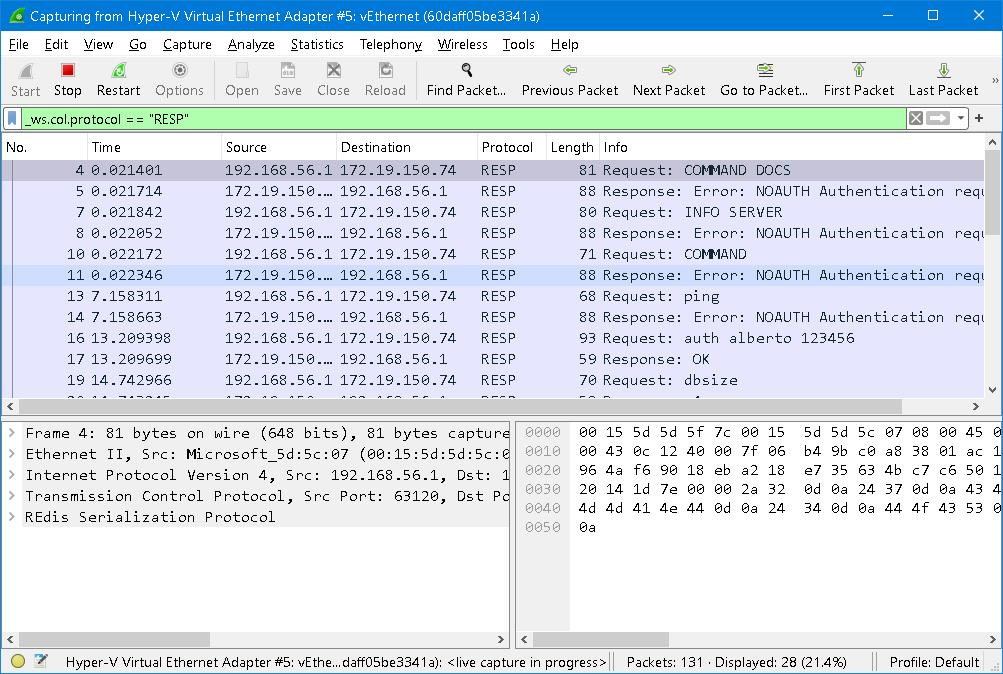
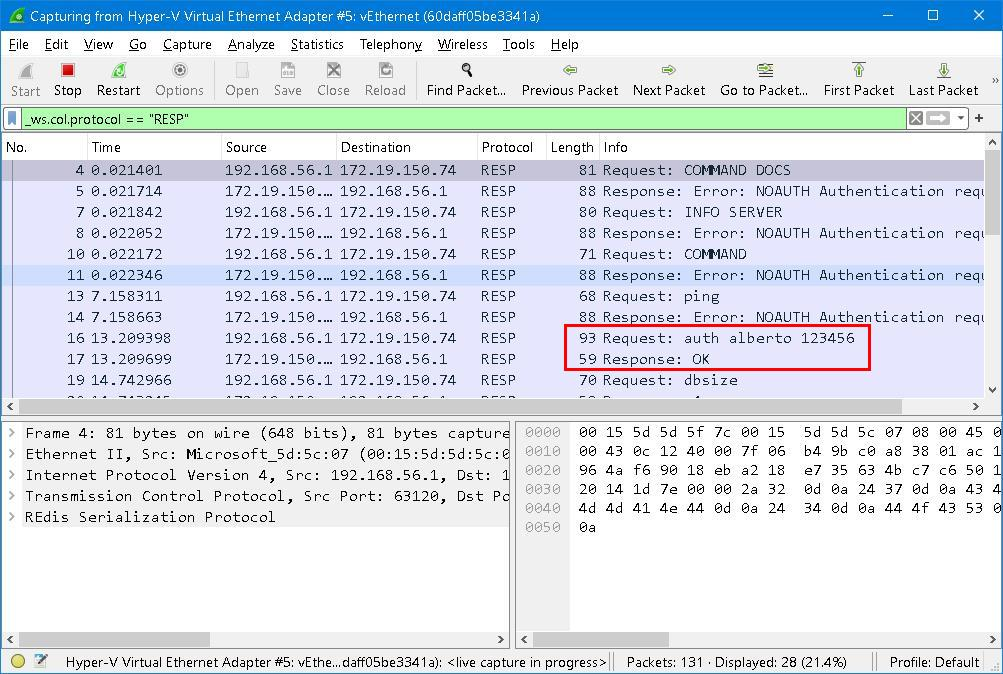
write more

Changed region(s): [[0.5563, 0.4674, 0.8654, 0.5608], [0.8654, 0.4985, 0.8963, 0.5297]]

diff --git a/security3.md b/security3.md
@@ -76,42 +76,182 @@ Here, I'm entering a gender, birthday, credit card number, and credit card expir
 
 In this example, I'm sniffing unencrypted data from the server where Redis is hosted. But this kind of surveillance can be run on any server, network switch, or router that sits between your Redis client and your Redis server. This means that usually there are quite a few opportunities for someone to sniff and record unencrypted network traffic. 
 
-Running a traceroute from your client to your Redis server will give you an idea of just how many sniffing opportunities might exist. And you can't secure this network route because it's completely outside of your control. So let's see what happens if we encrypt our network traffic using TLS instead. I'm going to start Redis again, this time with TLS enabled. Now I'll clear my screen and start that `tcpdump` again. Moving back to my client screen, I'll now connect to Redis, this time using TLS. This means my connection is now encrypted. Now I'll issue the same command I did before. Then, let's look again at the `tcpdump` output. See the difference? All you can see now are what appear to be a bunch of random characters. This is the value of encryption in action. Encryption protects your sensitive data from prying eyes on the network. For the rest of the unit, I'm going to explain how TLS works and everything you need to know to set it up with Redis. But first, two key points to remember for now. First, if you're storing sensitive information in Redis, and most personal information is sensitive, then you should encrypt your Redis connections with TLS. Second, even if you're using TLS, avoid public networks if you can. If you're on a private network, you greatly limit the number of attack vectors. OK. So with that out of the way, let's learn about TLS and how to use it with Redis.
-
-
-### II. [ACL Concepts](https://youtu.be/GuWWmR4od-A)
-[Access Control Lists](https://redis.io/docs/latest/operate/oss_and_stack/management/security/acl/), or ACLs for short, fundamentally change how Redis's authentication model works. Before Redis 6, Redis authentication was primitive. A single password secured your Redis deployment. There was no support for multiple users and passwords. And there was no support for per-user permissions either, what you might call authorization. 
-
-![alt prior redis 6](img/prior-redis-6.png)
-
-Redis ACLs changed all of that. Now you can create multiple Redis users, each with their own password. And you can control each user's permissions. This is important because you can now effectively implement the *principle of least privilege*. Using ACLs to implement the principle of least privilege prevents a number of bad outcomes. For example, you wouldn't want a new administrator to accidentally drop your database. In this case, you create an ACL that prevents your new administrator from running the `FLUSHDB` or `FLUSHALL` commands.
+Running a `traceroute` from your client to your Redis server will give you an idea of just how many sniffing opportunities might exist. And you can't secure this network route because it's completely outside of your control. 
 ```
-ACL SETUSER newadminuser on >password -FLUSHDB -FLUSHALL 
+traceroute ru330.redis.cloud 
 ```
 
-Similarly, you wouldn't want an attacker with compromised credentials to be able to probe or steal data from your Redis database. If I were an attacker with compromised credentials, one of the first things I would do is run the `SCAN` or `KEYS` command to find out what keys were in the database. I'd then run the `TYPE` command to see which Redis commands I could run on each key. If I couldn't run the `SCAN` or `KEYS` commands, I'd be left guessing what key names to attack this database with. So as an administrator, I'd want to prevent most service account users from running the `SCAN`, `KEYS`, or `TYPE` commands, unless they're part of the application design, just in case those account credentials
-ever got into the wrong hands. It could also help you to reduce the impact of careless user
-mistakes.
+![alt tracert]()
 
-In general, you should be giving users the least amount of privilege used to perform their job.You can do this by separating users by *role*. For example, a developer may only need read and write access, while an administrator may only need the ability to configure Redis. You may also want to separate applications by role. For example, some applications may only read from the database, and others may only write to the database. 
+So let's see what happens if we encrypt our network traffic using TLS instead. I'm going to start Redis again, this time with TLS enabled. Now I'll clear my screen and start that `tcpdump` again. Moving back to my client screen, I'll now connect to Redis, this time using TLS. 
+```
+redis-cli -h ru330.redis --tls --cacert ca.crt 
+```
 
-![alt by role](img/by-role.png)
+This means my connection is now encrypted. Now I'll issue the same command I did before. Then, let's look again at the `tcpdump` output. See the difference? All you can see now are what appear to be a bunch of random characters. This is the value of encryption in action. Encryption protects your sensitive data from prying eyes on the network. 
 
-A good example of this is a Pub/Sub application. In a Pub/Sub pattern, you have a publisher and a subscriber. Your publishers will probably only need the ability to create data, while your subscribers will probably only need access to read from the channels they're subscribed to. Another way to implement the principle of least privilege is to restrict data based on key patterns using namespacing techniques.
+For the rest of the unit, I'm going to explain how TLS works and everything you need to know to set it up with Redis. But first, two key points to remember for now. 
 
-For example, if you do not want an administrator to be able to access sensitive data, you can prefix all of the keys that are sensitive with the secret namespace. Imagine that you had an accounts table that contained user names, user details, and password hashes. You can namespace the keys for each user to be `secret:users` and only give access to the secret namespace to the service account for your application. 
+- First, if you're storing sensitive information in Redis, and most personal information is sensitive, then you should encrypt your Redis connections with TLS. 
+- Second, even if you're using TLS, avoid public networks if you can. If you're on a private network, you greatly limit the number of attack vectors. OK. So with that out of the way, let's learn about TLS and how to use it with Redis.
 
-![alt by name space](img/by_namespace.png)
+**Addendum**
 
-Any restriction on keys should be considered carefully as they must be built into the design of your keys when implementing your applications. OK, so that's ACLs in a nutshell.
+Life in Windows is no better than that in Linux for there is no such things as `tcpdump` bundled with. However, one can install [WinShark](https://www.wireshark.org/#homeMemberLink) which requires [Npcap](https://npcap.com/) to work together. 
 
-**Benefits of Access Control Lists**
-- Command and Key Restrictions 
-- Mitigate damge from a compromised username and password
-- Reduce impact of mistakes 
+![alt winshark](img/winshark-1.JPG) 
 
-In the next unit, we'll see how ACLs work in practice,
-so stay tuned.
+Typically, redis client uses [RESP](https://redis.io/docs/latest/develop/reference/protocol-spec/) protocol, which is plain text, to communicate with redis server. As you can see in following screens. 
+
+![alt ](img/unsafe-1.JPG)
+
+![alt ](img/unsafe-1.JPG)
+
+All commands sent as well as results received can be cleally seen. 
+
+
+### III. [Encryption](https://youtu.be/ULlTtFlSmkY)
+Encryption is the process of taking a message
+and encoding it so that only the intended recipients can
+read it.
+The algorithm you use to encrypt a message is called a cipher.
+Most of us are familiar with basic substitution ciphers
+such as ROT13.
+In ROT13, you can encrypt text by substituting or rotating
+each letter in a message with the letter that
+appears 13 letters later in the Latin alphabet.
+So for example, suppose we start with the plain-text message
+"HELLO".
+If we encrypt "HELLO" using ROT13,
+we get the cipher text URYYB.
+Shifting the H 13 letters forward gets us U and so on.
+To decrypt the cipher text, we just
+perform the reverse operation.
+Take a moment to see if you can decrypt
+the ROT13 encoded message you see on the screen now.
+Of course, the ciphers used by TLS
+are much more sophisticated than ROT13.
+TLS relies on two types of ciphers, symmetric key ciphers
+and asymmetric key ciphers.
+Now when I say key here, I'm talking about an encryption
+key.
+An encryption key is a little bit like a password,
+but it's generally much longer than a password
+and not really easy for a human to memorize.
+Ciphers use encryption keys to encrypt and decrypt data.
+In symmetric key cryptography, the same key
+is used for both encryption and decryption.
+In asymmetric key cryptography, one key is used for encryption,
+and a different key is used for decryption.
+Let's look at some examples to see how this works.
+If you've ever encrypted a file, you've probably
+used a symmetric key cipher.
+Here I'm using the gpg command line utility to encrypt a file
+called treasure-map.txt.
+Here I'm specifying that I want symmetric encryption,
+that I want to use the AES256 cipher,
+which is a commonly used symmetric key cipher,
+that the output should be written to a file called
+treasure-map.encrypted, and that the file I want to encrypt is
+called treasure-map.txt.
+When I run this command, the program asks me for a password.
+Now this is important. gpg uses the password
+I enter to generate an encryption key,
+and then it uses that encryption key to encrypt the file.
+So now we can see the encrypted file.
+To decrypt the file, I run gpg's decrypt command,
+providing the password that I use to encrypt the file.
+Again, gpg then uses that password
+to generate the key that will successfully decrypt the file.
+Clearly, you need to keep the password and encryption
+keys secret if you want your encrypted file to remain
+secret.
+Now suppose it's my friend, Captain Long
+Beard, who wants to send me the encrypted treasure map.
+If I want to receive this encrypted map,
+then I also need to receive the password or key that
+was used to encrypt it, but of course, I run into a problem
+here.
+How is that Captain securely share the key with me?
+He needs to be very careful when sharing his secret key
+because if it gets into anyone else's hands,
+then they'll be able to decrypt the map.
+That's where asymmetric key encryption comes in.
+As I mentioned, asymmetric key ciphers
+use two keys, one to encrypt and another to decrypt.
+The key to encrypt is called the public key,
+and the key to decrypt is called the private key.
+Do you see why?
+You can share your public key far and wide,
+and it doesn't matter who gets access to it.
+Public keys are meant to be publicly distributed.
+I can safely share my public key in an email,
+a tweet, or a published blog post.
+Once Captain Long Beard has my public key,
+he can use it to encrypt messages for me.
+To decrypt those messages, I need to use my private key.
+Obviously, then, I need to keep my private key secret.
+We're going to use the openssl command line
+utility to see how asymmetric encryption works in action.
+First, I'm going to generate my private key,
+so I run the openssl genrsa command.
+This creates the file that I'll use as my private key.
+Remember that this file can't be shared with anyone.
+Here's what the contents of the file look like.
+Now, an interesting fact is that the private key file actually
+contains the public key, but we need to extract it.
+So here's the command to do that,
+and here's what the public key actually looks like.
+So now I just need to send my public key to the Captain.
+It doesn't matter how I send it because it's only used
+for encryption, not decryption.
+I can send it over email, or I can paint it on a billboard.
+Now Captain Long Beard can use my public key
+to encrypt the file containing the treasure map.
+This is the openssl command he'll run.
+He then sends me the encrypted file, treasure-text.encrypted.
+Once I get the file, I use my private key to decrypt it.
+Here's the openssl command I'll run.
+If I'm using the correct private key,
+then I'll be able to decrypt the cipher text into the plain text
+message that leads me to the treasure.
+OK. So there's another important difference
+between asymmetric key and symmetric key ciphers,
+which is performance.
+Asymmetric key ciphers are much more computationally expensive
+and often thousands of times slower
+than symmetric key ciphers, so if you
+need to encrypt a lot of data, you should actually
+use a symmetric key cipher.
+And TLS actually uses both.
+TLS uses asymmetric key cryptography
+to help the two parties establish a shared secret key,
+and then TLS switches to symmetric key cryptography
+for all subsequent exchange of data.
+Let me elaborate on that just a bit.
+Here's how a TLS connection to your bank
+works on a very rudimentary level.
+Step one, you connect to your bank's website.
+Step two, your bank sends you its public key.
+Step three, you use the bank's public key to encrypt and send
+a large random number.
+Step four, the bank decrypts the number with its private key.
+Now you and your bank both have this secret, random number.
+Step five, you and your bank independently
+use this secret random number to generate an encryption key
+that you'll use with symmetric cryptography.
+Step six, communication then switches
+to using a symmetric key cipher.
+You and your bank then encrypt and decrypt
+all subsequent communication using the same encryption
+key you both just independently generated.
+We've just covered a lot of material,
+and you may need to re-watch this video to really master it.
+But at this point, you should have
+a sense for what encryption is and how it ensures
+the privacy of a conversation.
+In the next units, we'll see how TLS solves the problems
+of authenticity and integrity.
 
 
 ### III. [Practical ACLs with Redis](https://youtu.be/Va95q2SXGPA)
@@ -569,6 +709,11 @@ Now on the other hand, if the data on the system was not valuable to me, I'd jus
 
 
 ### VIII. Biblipgraphy 
+1. [WinShark](https://www.wireshark.org/#homeMemberLink)
+2. [Npcap](https://npcap.com/)
+3. 
+
+
 1. [OVER 18,000 REDIS INSTANCES TARGETED BY FAKE RANSOMWARE](https://duo.com/decipher/over-18000-redis-instances-targeted-by-fake-ransomware)
 2. [SHA256 Online Tools](https://emn178.github.io/online-tools/sha256.html)
 3. [Redis configuration file example](https://redis.io/docs/latest/operate/oss_and_stack/management/config-file/)
